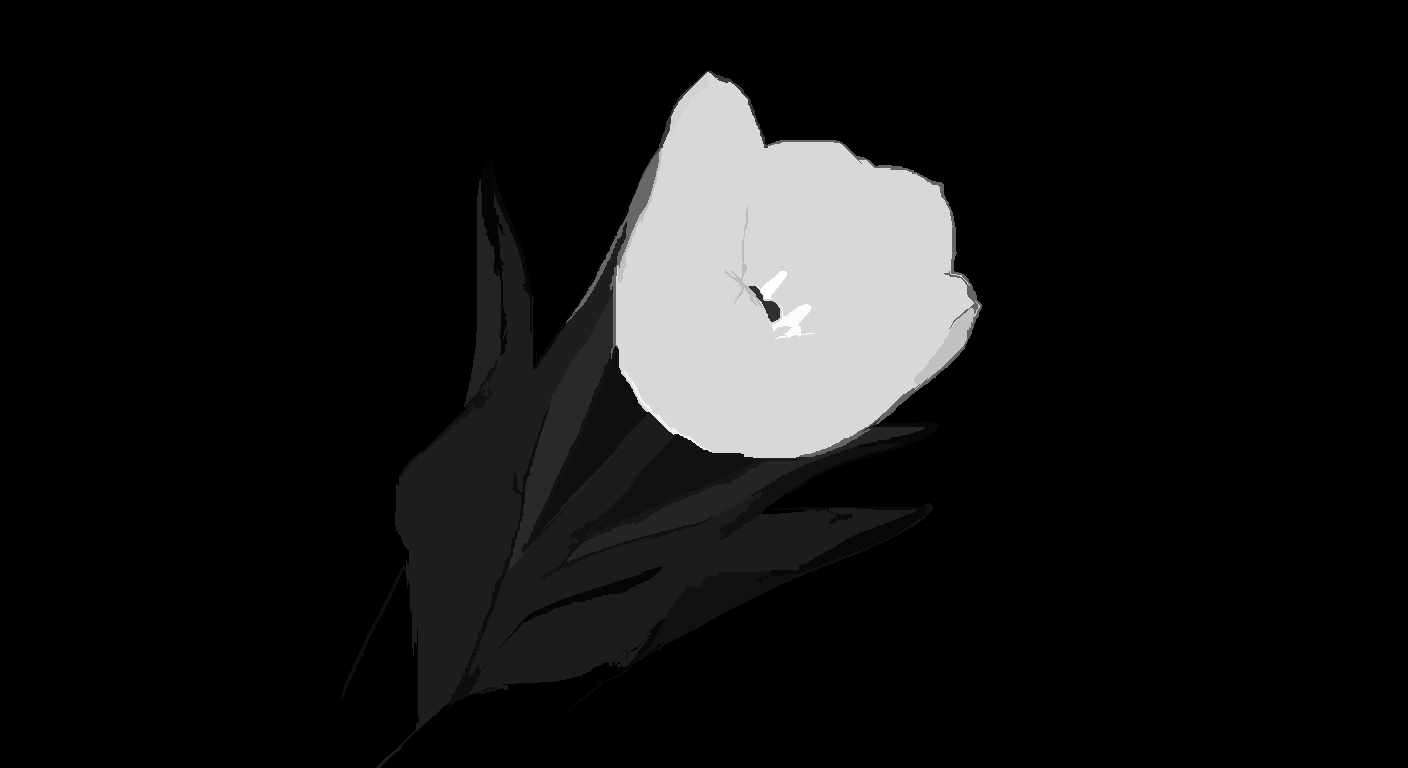
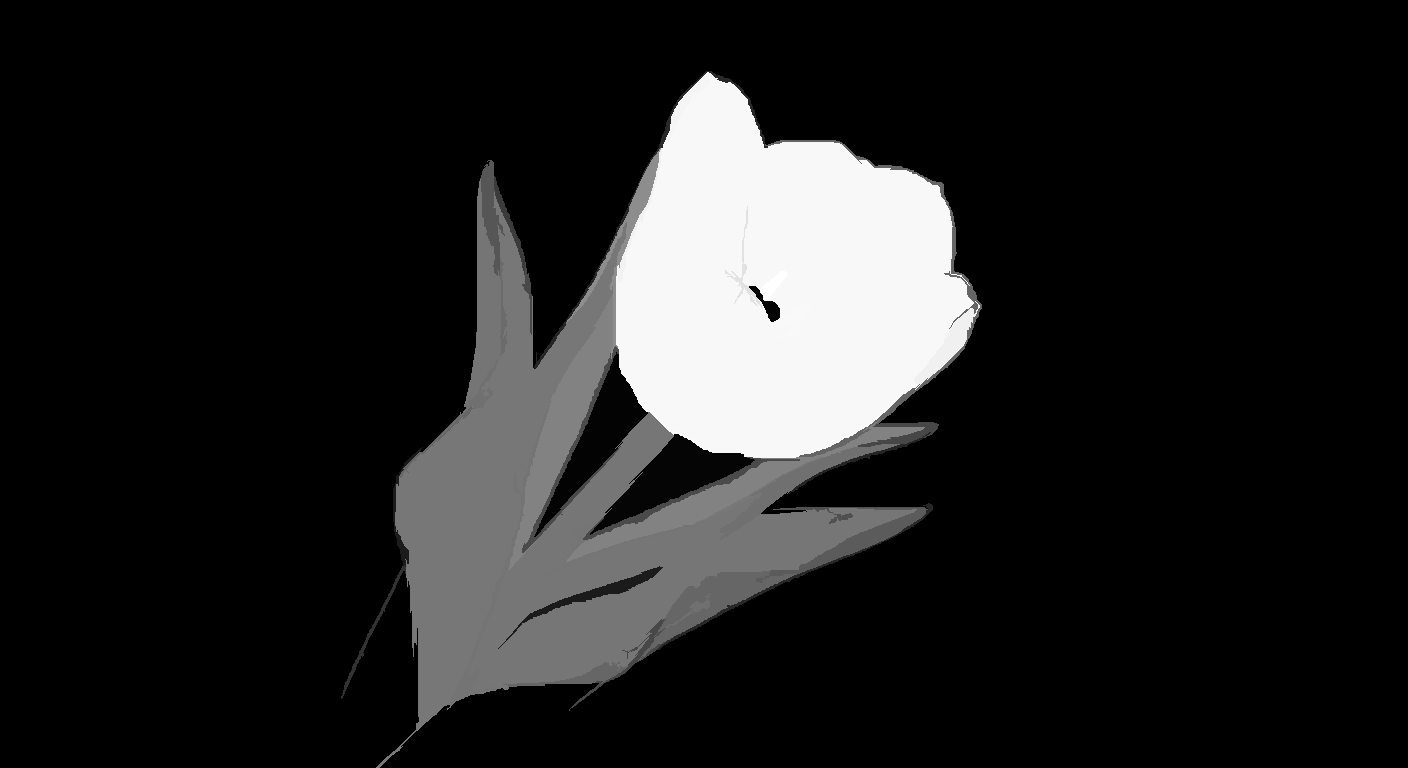
docs: update README with new features and add example output images

Changed region(s): [[0.2812, 0.0938, 0.6875, 0.9375]]

diff --git a/README.md b/README.md
@@ -1,23 +1,30 @@
 # Leiter
 
-A pure-C# image processing library designed for image segmentation, color space conversions, and visual saliency map computation. It is fully generic, optimized, and has zero external dependencies on its core algorithms.
+[![Build & Test](https://github.com/mrazza/Leiter/actions/workflows/test.yml/badge.svg)](https://github.com/mrazza/Leiter/actions/workflows/test.yml)
+[![.NET 10](https://img.shields.io/badge/.NET-10.0-512BD4)](https://dotnet.microsoft.com/)
+[![License: MIT](https://img.shields.io/badge/License-MIT-yellow.svg)](LICENSE.md)
+
+A pure-C# image processing, computer vision, and non-photorealistic rendering (NPR) library targeting **.NET 10**. `Leiter` provides strongly-typed generic pixel and matrix abstractions with **zero external dependencies** in its core library, OS-specific image adapters, and a complete end-to-end artistic **photo watercolorization** pipeline composed from modular primitives.
+
+---
 
 ## Features
 
-- **Multi-OS Platform Support:** Integrates seamlessly with Native Windows GDI+ / Bitmap (`System.Drawing.Common`) and Linux/Cross-Platform SixLabors `ImageSharp` via platform-specific extension packages.
-- **Efficient Graph-Based Image Segmentation (EGBI):** Fully multi-threaded implementation of the Felzenszwalb-Huttenlocher segmentation algorithm.
-- **Saliency Detection:**
-  - **Global Contrast Saliency:** Histogram-based saliency region detection with optional color space smoothing.
-  - **Regional Contrast Saliency:** Region-based contrast algorithm leveraging image segmentation, spatial distance, and border region handling.
-- **Advanced Color Space Conversions:** Support for conversions across **sRGB**, **CIEXYZ (Xyz32)**, and **CIELAB (Lab32)**, including CIEDE2000 color distance calculations.
-- **Image Blurring:** Multi-threaded Gaussian Blur implementation.
-- **Generic Pixel Types:** Strongly-typed representation of pixel data (`Rgb8`, `Rgb64`, `Lab32`, `Xyz32`, `DoublePixel`, `LongPixel`) supporting generic pixel/scalar mathematics.
+- **Generic Core & Region Graphs:** Strongly-typed pixel (`Rgb8`, `Rgb64`, `Lab32`, `Xyz32`, `DoublePixel`, `LongPixel`), matrix, and boolean mask types paired with disjoint-set and region-adjacency graph primitives.
+- **Color Science & Palette Transfer:** Bidirectional conversions across **sRGB**, **Linear RGB**, **CIEXYZ**, and **CIELAB**, CIE76 & CIEDE2000 color difference, quantization, and Reinhard statistical color transfer.
+- **Image Segmentation:** Multi-threaded Felzenszwalb–Huttenlocher (**EGBI**), Comaniciu–Meer **Mean-Shift**, and **GrabCut** foreground extraction.
+- **Visual Saliency & Distance Transforms:** Global and Regional Contrast saliency, iterative `SaliencyCut` masking, binary morphology, and Jump Flooding (**JFA**) distance fields.
+- **Filtering, Gradients, Noise & Anti-Aliasing:** Separable and recursive Gaussian blurs, box and oriented elliptical filters, `Sobel`/`Scharr` gradients, sub-pixel resampling, fractal Perlin noise, and **FXAA 3.11**.
+- **Stylization & Photo Watercolorization:** Saliency-guided LOD abstraction, pigment blending, tone curves, wet-in-wet bleeding, hand-tremor warping, paper granulation, and an end-to-end `WatercolorPipeline`.
+- **Multi-OS Platform Support:** Adapters for cross-platform `SixLabors.ImageSharp` and Windows GDI+ (`System.Drawing.Common`).
 
 ---
 
 ## Example Usage
 
-Here is a comprehensive example demonstrating how to load an image, perform Gaussian blurring, segment it, and compute both global and regional visual saliency maps.
+### 1. Segmentation, Visual Saliency & Salient Object Extraction
+
+Loads an image, computes EGBI segmentation in CIELAB, evaluates Global and Regional Contrast Saliency, and extracts a refined foreground mask plus normalized saliency distance field via `SaliencyCut` and `1+JFA`:
 
 ```csharp
 using System;
@@ -28,79 +35,146 @@ using Leiter.Pixels;
 using Leiter.Pixels.ColorSpaces;
 using Leiter.Algorithms;
 using Leiter.Algorithms.DataStructures;
-using Leiter.Algorithms.Segmentation;
 using Leiter.Algorithms.Saliency;
+using Leiter.Algorithms.Segmentation;
 using Leiter.Platform.Linux; // Or Leiter.Platform.Windows on Windows
 
 class Program
 {
     static void Main()
     {
-        // 1. Load an image using ImageSharp
-        using var image = Image.Load<Rgb24>("input.png");
-        
-        // 2. Convert SixLabors Image to a generic Leiter Matrix
+        // 1. Load an image and convert to a generic Leiter Matrix
+        using Image<Rgb24> image = Image.Load<Rgb24>("examples/input.png");
         Matrix<Rgb8> imageMatrix = image.ToSequentialMatrix();
-        
-        // 3. Smooth the image using Gaussian Blur
-        Matrix<Rgb8> blurredImageMatrix = Blur.GaussianBlur(imageMatrix, 0.8f, 2);
-        
-        // 4. Convert colors to Lab32 color space for precise delta-E calculations
-        var labImageMatrix = blurredImageMatrix.Map(pixel => pixel.ToLab32(RgbColorSpace.sRGB));
-        
-        // 5. Segment the image using EGBI (Felzenszwalb algorithm)
-        IDisjointSet segmentationMatrix = EgbiSegmentation.Segment(labImageMatrix, kFactor: 50, minSegmentSize: 200);
-        
-        // 6. Color image by segments using the Average Color Assigner
-        var imageSegmented = imageMatrix.Clone();
+
+        // 2. Smooth with Gaussian blur and convert to CIELAB for perceptual segmentation
+        Matrix<Rgb8> blurred = Blur.GaussianBlur(imageMatrix, sigma: 0.8, radius: 2);
+        Matrix<Lab32> labImage = blurred.Map(static pixel => pixel.ToLab32(RgbColorSpace.sRGB));
+
+        // 3. Segment with EGBI (Felzenszwalb–Huttenlocher)
+        var egbiOptions = new EgbiOptions(KFactor: 50.0, Epsilon: 1.0, MinRegionSize: 200);
+        IDisjointSet segmentation = EgbiSegmentation.Segment(labImage, egbiOptions);
+
+        Matrix<Rgb8> segmented = imageMatrix.Clone();
         EgbiSegmentation.ColorImageBySegmentation(
-            imageSegmented, 
-            segmentationMatrix.ToRegions(), 
-            EgbiSegmentation.AverageColorAssigner()
-        );
-        using var segmentedImg = imageSegmented.ToImage();
+            segmented,
+            segmentation.ToRegions(),
+            EgbiSegmentation.AverageColorAssigner());
+        using Image<Rgb24> segmentedImg = segmented.ToImage();
         segmentedImg.Save("segmented.png");
-        
-        // 7. Compute Global Contrast Saliency Map
-        var globalSaliencyMatrix = GlobalContrastSaliency.ComputeSaliency(imageMatrix);
-        var globalSaliencyImageMatrix = globalSaliencyMatrix.Map(s => new Rgb8((byte)(s.Value * 255), (byte)(s.Value * 255), (byte)(s.Value * 255)));
-        using var globalSaliencyImg = globalSaliencyImageMatrix.ToImage();
-        globalSaliencyImg.Save("global_saliency.png");
-        
-        // 8. Compute Regional Contrast Saliency Map
-        var regionalSaliencyMatrix = RegionalContrastSaliency.ComputeSaliency(imageMatrix, segmentationMatrix);
-        var regionalSaliencyImageMatrix = regionalSaliencyMatrix.Map(s => new Rgb8((byte)(s.Value * 255), (byte)(s.Value * 255), (byte)(s.Value * 255)));
-        using var regionalSaliencyImg = regionalSaliencyImageMatrix.ToImage();
-        regionalSaliencyImg.Save("regional_saliency.png");
+
+        // 4. Compute Global (HC) and Regional (RC) Contrast Saliency
+        Matrix<DoublePixel> globalSaliency = GlobalContrastSaliency.ComputeSaliency(imageMatrix);
+        Matrix<DoublePixel> regionalSaliency = RegionalContrastSaliency.ComputeSaliency(imageMatrix, segmentation);
+
+        // 5. Extract a refined binary foreground mask and smoothed [0, 1] distance field
+        (MaskMatrix salientMask, Matrix<DoublePixel> distanceField) = SaliencyDistanceField.Compute(
+            imageMatrix,
+            regionalSaliency,
+            new SaliencyCutOptions(MaxOuterIterations: 4));
     }
 }
 ```
 
+### 2. Artistic Photo Watercolorization
+
+Runs the complete 6-stage photo watercolorization pipeline in a single call, or with per-stage customization and intermediate artifact inspection:
+
+```csharp
+using SixLabors.ImageSharp;
+using SixLabors.ImageSharp.PixelFormats;
+using Leiter.Algorithms.Color;
+using Leiter.Algorithms.Segmentation;
+using Leiter.Algorithms.Stylization.Watercolor;
+using Leiter.Core;
+using Leiter.Pixels;
+using Leiter.Platform.Linux;
+
+using Image<Rgb24> input = Image.Load<Rgb24>("examples/input.png");
+Matrix<Rgb8> source = input.ToSequentialMatrix();
+
+// Option A: Render with default parameters and automatic palette matching
+Matrix<Rgb8> watercolor = WatercolorPipeline.Render(source);
+using Image<Rgb24> watercolorImg = watercolor.ToImage();
+watercolorImg.Save("watercolor.png");
+
+// Option B: Tune stage options and inspect intermediate pipeline artifacts
+var options = new WatercolorOptions(
+    TargetPalette: WatercolorPalettes.WarmOchreEarth,
+    MeanShift: new MeanShiftOptions(SpatialRadius: 8, RangeRadius: 5.5, MinRegionSize: 50),
+    WetInWet: new WetInWetOptions(Mode: WetInWetMode.Default),
+    HandTremor: new HandTremorOptions(Amplitude: 2.5),
+    PaperGranulation: new PaperGranulationOptions(DensityStrength: 0.3, WarpAmplitude: 0.6));
+
+WatercolorResult detailed = WatercolorPipeline.RenderDetailed(source, options);
+// Available artifacts: detailed.ColorTransferred, detailed.SalientMask,
+// detailed.SaliencyDistanceField, detailed.LodAbstracted, detailed.WetInWet,
+// detailed.HandTremor, and detailed.Output.
+```
+
 ---
 
-## Visual Saliency & Segmentation Showcase
+## Visual Showcases
 
-Below is an actual example demonstrating the outputs of the library processing a studio-lit red tulip.
+### Segmentation, Visual Saliency & Salient Object Extraction
 
-| Original Input | Image Segmentation (EGBI) |
-|:---:|:---:|
-| <img src="examples/input.png" width="350"/> | <img src="examples/segmented.png" width="350"/> |
-| *Original image loaded into Leiter matrix* | *Segmented regions colored with segment averages* |
+| Original Input | EGBI Segmentation | Global Contrast Saliency (HC) |
+|:---:|:---:|:---:|
+| <img src="examples/input.png" width="320"/> | <img src="examples/segmented.png" width="320"/> | <img src="examples/global_saliency.png" width="320"/> |
+| *Input image (`1408×768`)* | *EGBI regions (`k = 50, min = 200`)* | *Histogram-based global contrast* |
 
-| Global Contrast Saliency | Regional Contrast Saliency |
-|:---:|:---:|
-| <img src="examples/global_saliency.png" width="350"/> | <img src="examples/regional_saliency.png" width="350"/> |
-| *Saliency calculated using per-pixel global color contrast* | *Saliency calculated incorporating segment regions & spatial weights* |
+| Regional Contrast Saliency (RC) | `SaliencyCut` Foreground Mask | Saliency Distance Field (`1+JFA`) |
+|:---:|:---:|:---:|
+| <img src="examples/regional_saliency.png" width="320"/> | <img src="examples/saliency_cut.png" width="320"/> | <img src="examples/distance_field.png" width="320"/> |
+| *Segmentation-weighted regional contrast* | *Iterative `GrabCut` + morphology refinement* | *Collinear ray–border normalized & smoothed* |
+
+### Photo Watercolorization Pipeline
+
+| Stage 3: LOD Abstraction | Stage 4: Wet-in-Wet Bleeding | Stage 5: Hand Tremor Effect | Stage 6: Final Watercolor Painting |
+|:---:|:---:|:---:|:---:|
+| <img src="examples/lod_abstraction.png" width="240"/> | <img src="examples/wet_in_wet.png" width="240"/> | <img src="examples/hand_tremor.png" width="240"/> | <img src="examples/watercolor.png" width="240"/> |
+| *Saliency-guided Mean-Shift abstraction* | *Oriented elliptical feathering* | *Perlin edge warp, gaps & glazes* | *Edge darkening, granulation & FXAA* |
 
 ---
 
-## Library Architecture
+## Solution Architecture & CLI Harness
 
-- **`Leiter`**: Core library hosting all pure generic image structures, conversions, algorithms, segmentation, and saliency models.
-- **`Leiter.Platform.Windows`**: Integrates with GDI+ / `System.Drawing.Common` to support Native Windows platforms.
-- **`Leiter.Platform.Linux`**: Integrates with SixLabors `ImageSharp` to support Linux and generic cross-platform deployments.
-- **`Leiter.Tests`**: High-coverage unit test suite validating mathematical, platform, and algorithmic consistency.
+- **`Leiter`**: Zero-dependency core library containing matrices, pixel types, color spaces, vision algorithms, and stylization pipelines.
+- **`Leiter.Platform.Linux`**: Cross-platform image I/O via `SixLabors.ImageSharp`.
+- **`Leiter.Platform.Windows`**: Native Windows GDI+ (`System.Drawing.Common`) image I/O via `Bitmap.LockBits`.
+- **`Leiter.Tests`**: Unit test suite validating core math, platform interop, and algorithm behavior.
+- **`LeiterTest`**: CLI benchmark harness executing the library's operations against an input image.
+
+### Build, Test & Run CLI Benchmark
+
+```bash
+# Build the full solution in Release mode
+dotnet build Leiter.slnx --configuration Release
+
+# Run the xUnit test suite
+dotnet test Leiter.slnx --configuration Release
+
+# Run the CLI harness against an image (writes benchmark timings & PNG outputs)
+dotnet run --project LeiterTest --configuration Release -- examples/input.png ./output
+```
+
+---
+
+## References
+
+- Wang, M., Wang, B., Fei, Y., Qian, K., Wang, W., Chen, J., & Yong, J.-H. *"Towards Photo Watercolorization with Artistic Verisimilitude."* IEEE TVCG, 2014.
+- Cheng, M.-M., Mitra, N. J., Huang, X., Torr, P. H. S., & Hu, S.-M. *"Global Contrast Based Salient Region Detection."* IEEE TPAMI, 2015.
+- Felzenszwalb, P. F., & Huttenlocher, D. P. *"Efficient Graph-Based Image Segmentation."* IJCV, 2004.
+- Comaniciu, D., & Meer, P. *"Mean Shift: A Robust Approach Toward Feature Space Analysis."* IEEE TPAMI, 2002.
+- Rother, C., Kolmogorov, V., & Blake, A. *"'GrabCut' — Interactive Foreground Extraction using Iterated Graph Cuts."* ACM TOG (SIGGRAPH), 2004.
+- Bousseau, A., Kaplan, M., Thollot, J., & Sillion, F. X. *"Interactive Watercolor Rendering with Temporal Coherence and Abstraction."* NPAR, 2006.
+- Reinhard, E., Adhikhmin, M., Gooch, B., & Shirley, P. *"Color Transfer between Images."* IEEE CG&A, 2001.
+- Rong, G., & Tan, T.-S. *"Jump Flooding in GPU with Applications to Voronoi Diagram and Distance Transform."* ACM I3D, 2006.
+- Young, I. T., & van Vliet, L. J. *"Recursive Implementation of the Gaussian Filter."* Signal Processing, 1995; Triggs, B., & Sdika, M. *"Boundary Conditions for Young–van Vliet Recursive Filtering."* IEEE TSP, 2006.
+- Lottes, T. *"FXAA 3.11."* NVIDIA, 2009.
+
+---
 
 ## License
 
-This project is licensed under the MIT License - see the [LICENSE.md](LICENSE.md) file for details.
+This project is licensed under the MIT License — see [LICENSE.md](LICENSE.md) for details.
